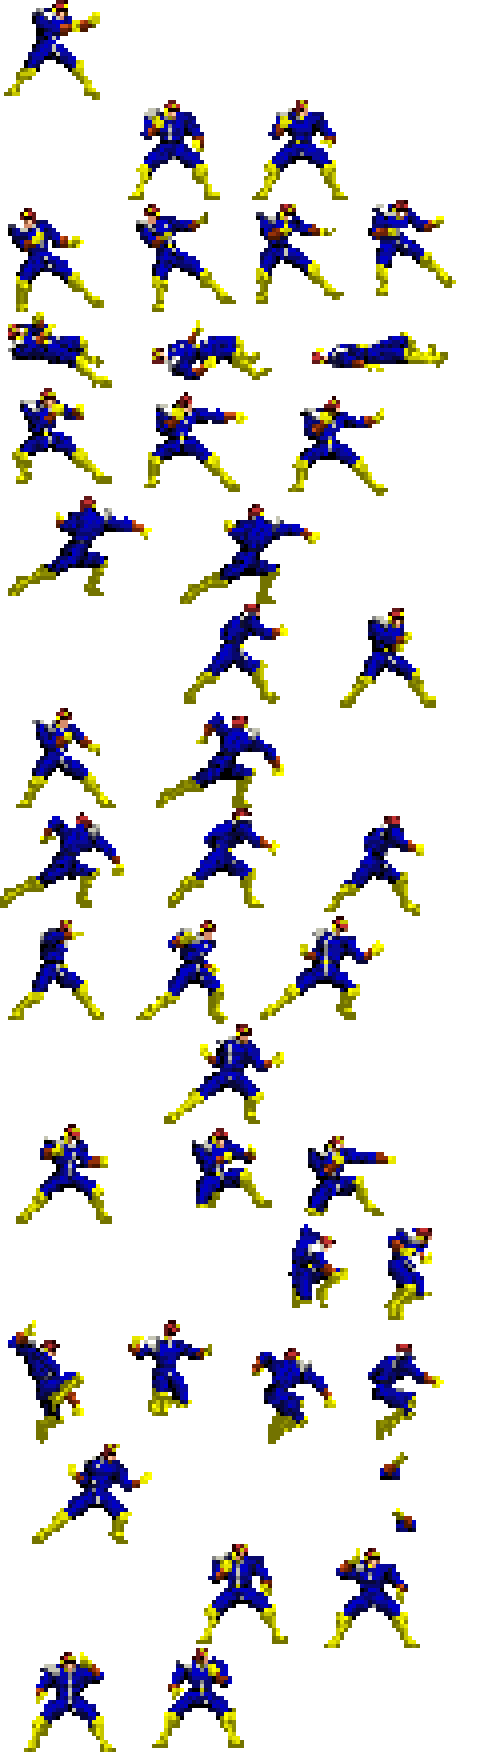
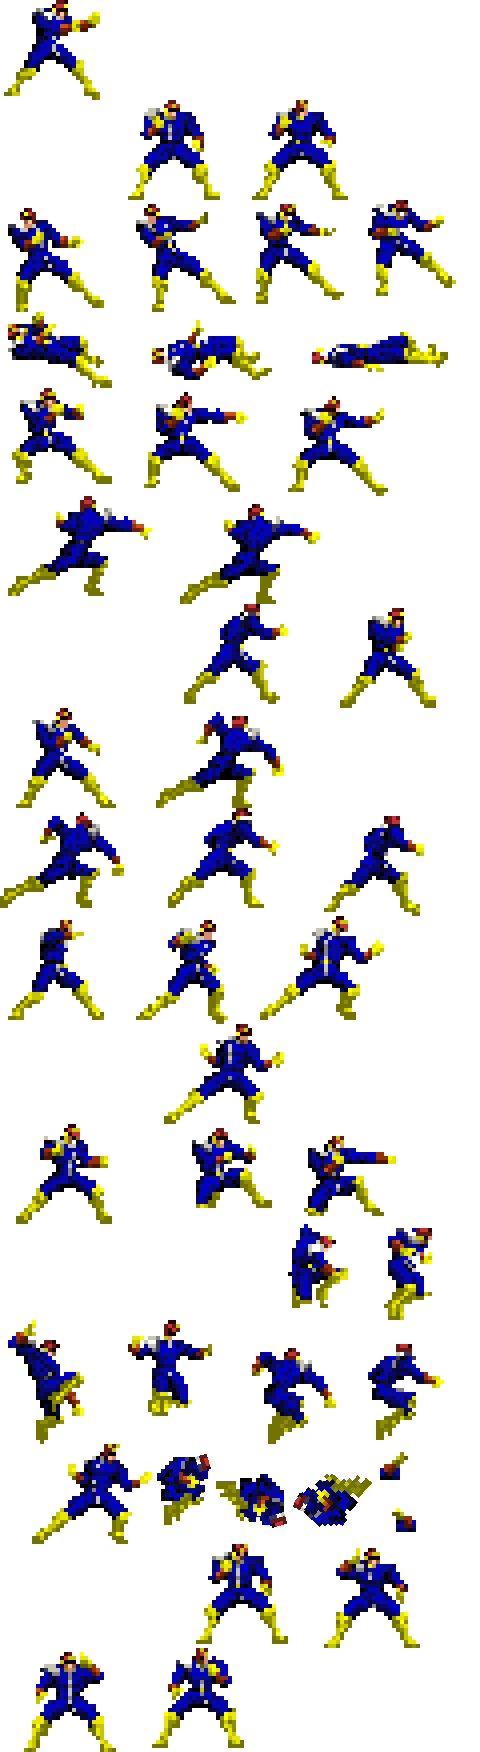
Jumping & Uppercut Animation
Added the Jumping and Uppercut animations.
Create a Frames class from Rectangle to create an origin to offset the
last Uppercut animation.

Changed region(s): [[0.3125, 0.8322, 0.5938, 0.8938], [0.625, 0.8322, 0.7812, 0.8938]]

diff --git a/FiteMeIRL/FiteMeIRL/FiteMeIRL/Game1.cs b/FiteMeIRL/FiteMeIRL/FiteMeIRL/Game1.cs
@@ -19,6 +19,7 @@ namespace FiteMeIRL
         Sprite spriteSheet;
         List<Rectangle> walkingFrames;
         List<Rectangle> jumpingFrames;
+        List<Rectangle> uppercutFrames;
 
         Fighter falcon;
 
@@ -47,6 +48,7 @@ namespace FiteMeIRL
             // TODO: use this.Content to load your game content here
             walkingFrames = new List<Rectangle>();
             jumpingFrames = new List<Rectangle>();
+            uppercutFrames = new List<Rectangle>();
             spriteSheet = new Sprite(Content.Load<Texture2D>("CaptFalc1stHalf"), new Vector2(100, 200), Color.White);
 
             walkingFrames.Add(new Rectangle(128, 208, 92, 112));
@@ -61,17 +63,27 @@ namespace FiteMeIRL
             AnimatedSprite falconWalking = new AnimatedSprite(Content.Load<Texture2D>("CaptFalc1stHalf"), new Vector2(100, 200), Color.White, walkingFrames);
             falconWalking.AnimationTime = new TimeSpan(0, 0, 0, 0, 125);
 
-            jumpingFrames.Add(new Rectangle(8, 452, 60, 124));
-            jumpingFrames.Add(new Rectangle(111, 456, 73, 108));
-            jumpingFrames.Add(new Rectangle(212, 460, 73, 80));
-            jumpingFrames.Add(new Rectangle(316, 460, 84, 97));
+            jumpingFrames.Add(new Rectangle(157, 1454, 54, 71));
+            jumpingFrames.Add(new Rectangle(216, 1474, 71, 54));
+            jumpingFrames.Add(new Rectangle(293, 1474, 79, 52));
 
-            AnimatedSprite falconJumping = new AnimatedSprite(Content.Load<Texture2D>("CaptFalc1stHalf"), new Vector2(100, 200), Color.White, jumpingFrames);
-            falconJumping.AnimationTime = new TimeSpan(0, 0, 0, 0, 250);
+            AnimatedSprite falconJumping = new AnimatedSprite(Content.Load<Texture2D>("CaptFalc2ndHalf"), new Vector2(100, 200), Color.White, jumpingFrames);
+            falconJumping.AnimationTime = new TimeSpan(0, 0, 0, 0, 200);
+
+            uppercutFrames.Add(new Rectangle(248, 12, 88, 80));
+            uppercutFrames.Add(new Rectangle(364, 16, 88, 88));
+            uppercutFrames.Add(new Rectangle(4, 104, 96, 84));
+            uppercutFrames.Add(new Rectangle(127, 108, 93, 100));
+            uppercutFrames.Add(new Rectangle(252, 108, 88, 108));
+            uppercutFrames.Add(new Rectangle(380, 104, 65, 152));
+
+            AnimatedSprite falconUppercut = new AnimatedSprite(Content.Load<Texture2D>("CaptFalc3rdHalf"), new Vector2(100, 200), Color.White, uppercutFrames);
+            falconUppercut.AnimationTime = new TimeSpan(0, 0, 0, 0, 200);
 
             Dictionary<FighterState, AnimatedSprite> falconAnimations = new Dictionary<FighterState, AnimatedSprite>();
             falconAnimations.Add(FighterState.Walking, falconWalking);
             falconAnimations.Add(FighterState.Jumping, falconJumping);
+            falconAnimations.Add(FighterState.Uppercut, falconUppercut);
 
             falcon = new Fighter(new Vector2(100, 200), Color.White, falconAnimations);
             falcon.WalkingSpeed = 1.5f;            

diff --git a/FiteMeIRL/FiteMeIRL/FiteMeIRL/Fighter.cs b/FiteMeIRL/FiteMeIRL/FiteMeIRL/Fighter.cs
@@ -53,13 +53,21 @@ namespace FiteMeIRL
             else if (ks.IsKeyDown(Keys.W))
             {
                 _animations[FighterState.Jumping].Update(gameTime);
-
-                
                 _currentAnimation = _animations[FighterState.Jumping];
             }
             else if (ks.IsKeyDown(Keys.W) && ks.IsKeyDown(Keys.D))
             {
 
+            }
+            else if (ks.IsKeyDown(Keys.I))
+            {
+                _animations[FighterState.Uppercut].Update(gameTime);
+                _currentAnimation = _animations[FighterState.Uppercut];
+                
+            }
+            else if (ks.IsKeyUp(Keys.I))
+            {
+                _animations[FighterState.Uppercut].ResetAnimation();
             }
             else
             {

diff --git a/FiteMeIRL/FiteMeIRL/FiteMeIRL/AnimatedSprite.cs b/FiteMeIRL/FiteMeIRL/FiteMeIRL/AnimatedSprite.cs
@@ -9,10 +9,16 @@ namespace FiteMeIRL
 {
     public class AnimatedSprite : Sprite
     {
-        List<Rectangle> _frames;
+        private List<Rectangle> _frames;
         int currentFrame = 0;
         TimeSpan elapsedGameTime;
         public TimeSpan AnimationTime;
+
+        public List<Rectangle> frames
+        {
+            get { return _frames; }
+            set { _frames = value; }
+        }
 
         public AnimatedSprite(Texture2D texture, Vector2 position, Color color, List<Rectangle> frames)
             :base(texture, position, color)

diff --git a/FiteMeIRL/FiteMeIRL/FiteMeIRL/enums.cs b/FiteMeIRL/FiteMeIRL/FiteMeIRL/enums.cs
@@ -8,6 +8,7 @@ namespace FiteMeIRL
     public enum FighterState
     {
         Walking,
-        Jumping
+        Jumping,
+        Uppercut
     }
 }
